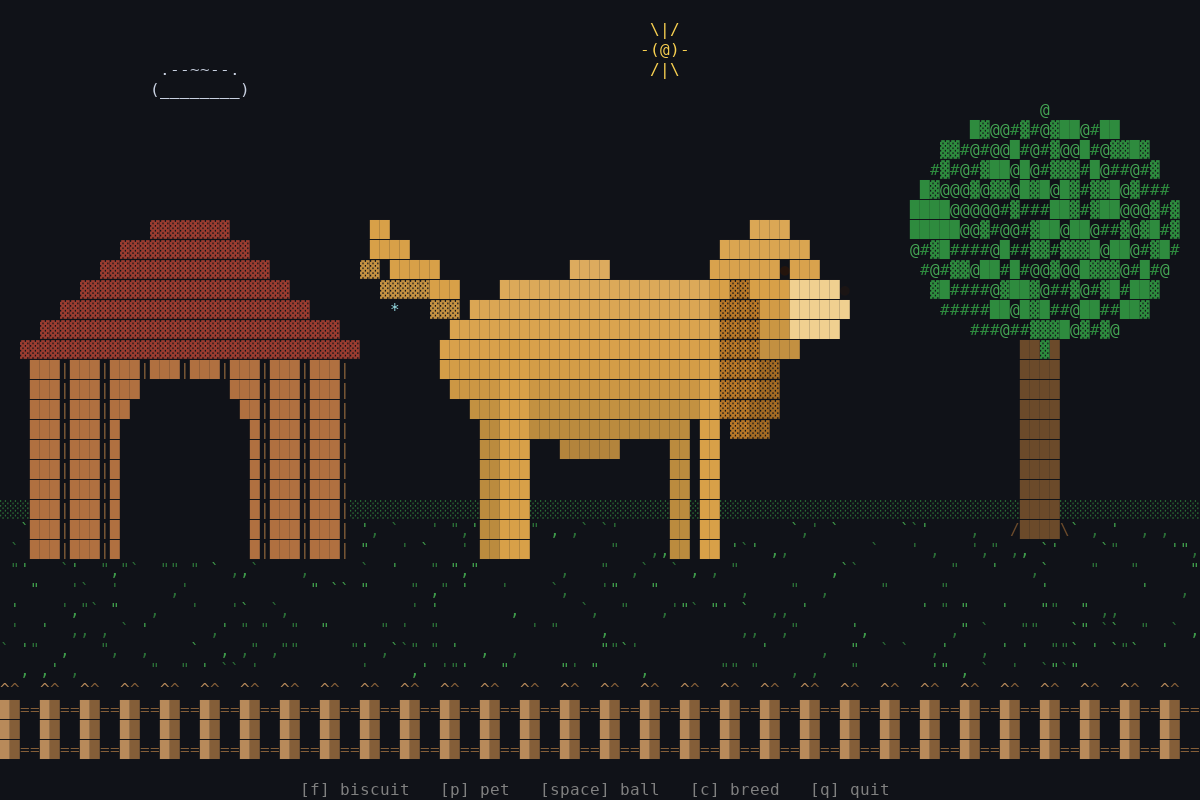
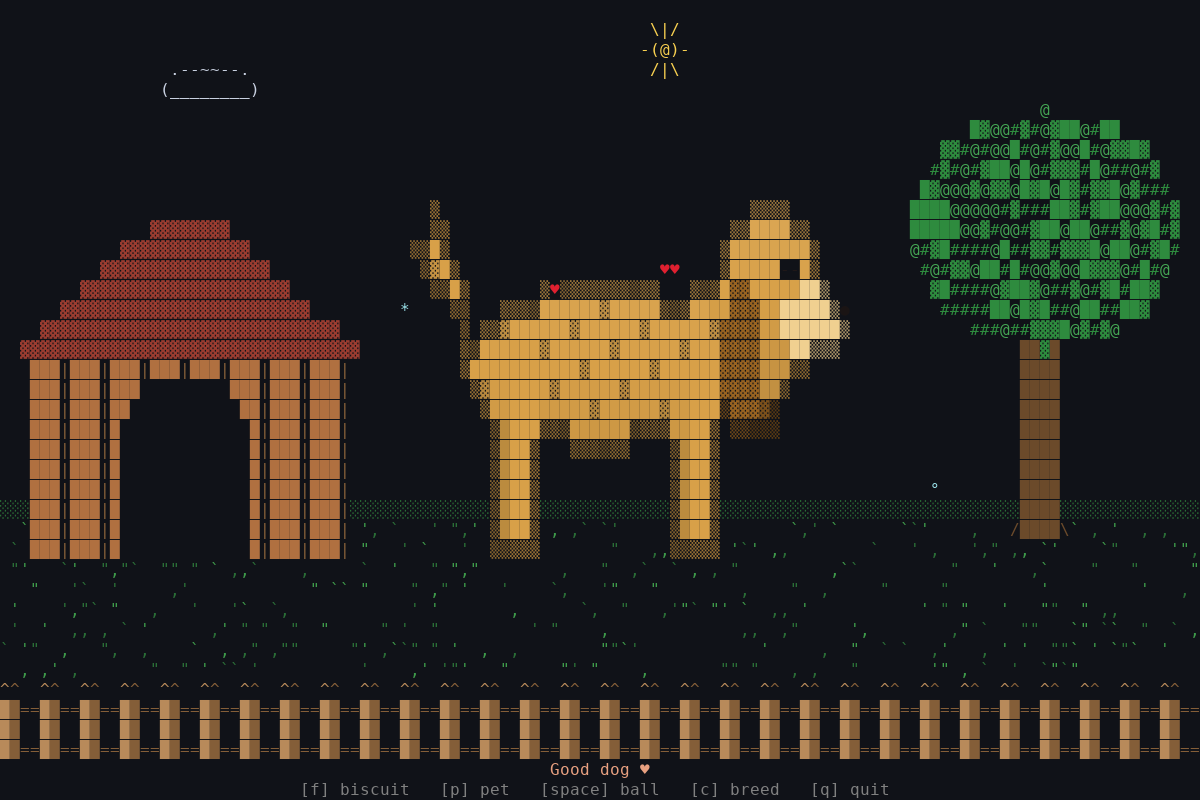
Redraw the dog in the cat's style with better proportions and a clearer roll-over
Claude-Session: https://claude.ai/code/session_015qkTSJmWNE5tcAWvmA8ec2

Changed region(s): [[0.2775, 0.25, 0.7092, 0.7188], [0.4625, 0.9375, 0.5242, 0.9688]]

diff --git a/src/dog_art.rs b/src/dog_art.rs
@@ -223,10 +223,10 @@ impl<'a> Rig<'a> {
         let p = &body.dpose;
         let m = g.maxw * br.size * 1.6;
         let ll = (0.15 * m * br.leg).max(1.0);
-        let rv = 0.14 * m;
+        let rv = 0.13 * m;
         let vb = ll + rv;
-        let hru = 0.18 * m;
-        let hrv = 0.1 * m;
+        let hru = 0.17 * m;
+        let hrv = 0.15 * m;
         let hd = p.head_down.max(0.5 * p.crouch);
         let hv0 = vb + rv * 0.75;
         let mut hv = hv0 - hd * (hv0 - 1.4 - hrv * 0.5) + p.look_up * 0.12 * m - p.tilt.abs() * 0.8;
@@ -234,8 +234,8 @@ impl<'a> Rig<'a> {
         let mut oy = (feet - 1) as f32 + body.dy;
         let flip = p.roll > 0.5;
         if flip {
-            hv = 2.0 * vb - hv - ll;
-            hu += 0.0;
+            // lying on its back: the body rests on the grass (`fill` mirrors v)
+            oy += (ll - 2.0).max(0.0);
         } else {
             oy += p.crouch;
         }
@@ -252,7 +252,7 @@ impl<'a> Rig<'a> {
             m,
             ll,
             rv,
-            ru: 0.46 * m,
+            ru: 0.42 * m,
             vb,
             hu,
             hv,
@@ -346,7 +346,7 @@ impl<'a> Rig<'a> {
     }
 
     fn mouth(&self) -> (f32, f32) {
-        let tip = self.hu + self.hru * 0.85 + 0.09 * self.m;
+        let tip = self.hu + self.hru * 0.85 + 0.11 * self.m;
         (tip, self.hv - 0.4)
     }
 }
@@ -361,10 +361,20 @@ fn shade(c: Rgb, k: f32) -> Rgb {
 
 /// Fur at a body point: glyph and color for this breed's markings.
 fn coat(r: &Rig, u: f32, v: f32, x: i32, y: i32) -> (char, Rgb) {
+    let (ch, c) = coat_flat(r, u, v, x, y);
+    // same fur speckle as the cat: every seventh cell a darker, lighter-weight glyph
+    if ch == '\u{2588}' && (x + 3 * y).rem_euclid(7) == 0 && r.br.pat != Pat::Poodle {
+        ('\u{2593}', shade(c, -0.6))
+    } else {
+        (ch, c)
+    }
+}
+
+fn coat_flat(r: &Rig, u: f32, v: f32, x: i32, y: i32) -> (char, Rgb) {
     let b = r.br;
     let rel = ((v - r.vb) / r.rv).clamp(-1.0, 1.0);
     let uu = u / r.m;
-    let base = shade(b.coat, rel * 0.8);
+    let base = shade(b.coat, rel * 0.3);
     match b.pat {
         Pat::Plain => ('\u{2588}', base),
         Pat::Husky => {
@@ -423,7 +433,14 @@ fn draw_leg(r: &Rig, cv: &mut Canvas, p: &crate::dog::DogPose, u0: f32, ph: f32,
     } else {
         0.0
     };
-    let hw = (0.035 * r.m).max(1.0);
+    // on its back the legs are bent and paw at the air
+    let (swing, lift) = if r.flip {
+        let k = (r.t * 9.0 + ph).sin();
+        (k * 0.04 * r.m, r.ll * 0.45 + (k * 0.5 + 0.5) * r.ll * 0.2)
+    } else {
+        (swing, lift)
+    };
+    let hw = (0.04 * r.m).max(1.5);
     let top = r.vb;
     let col = if far { shade(b.coat, -0.6) } else { b.coat };
     r.fill(
@@ -450,7 +467,7 @@ fn draw_leg(r: &Rig, cv: &mut Canvas, p: &crate::dog::DogPose, u0: f32, ph: f32,
 fn draw_tail(r: &Rig, cv: &mut Canvas, p: &crate::dog::DogPose) {
     let b = r.br;
     let m = r.m;
-    let (bu, bv) = (-0.46 * m, r.vb + r.rv * 0.5);
+    let (bu, bv) = (-0.42 * m, r.vb + r.rv * 0.5);
     let wag = (p.wag_ph).sin() * p.wag.clamp(0.0, 1.0) * 0.55;
     let col = b.coat;
     let stampc = |cv: &mut Canvas, u: f32, v: f32, ch: char, c: Rgb| {
@@ -468,7 +485,7 @@ fn draw_tail(r: &Rig, cv: &mut Canvas, p: &crate::dog::DogPose) {
         }
     };
     match b.tail {
-        Tail::Straight => line(cv, 0.6 + wag, 0.30 * m, false, '\u{2588}', col),
+        Tail::Straight => line(cv, 0.6 + wag, 0.30 * m, true, '\u{2588}', col),
         Tail::Plume => {
             line(cv, 0.7 + wag, 0.32 * m, true, '\u{2588}', col);
             line(cv, 0.45 + wag, 0.3 * m, false, '\u{2593}', shade(col, -0.4));
@@ -513,11 +530,15 @@ fn draw_head(r: &Rig, cv: &mut Canvas, body: &Body, neck: bool) {
     let (hu, hv) = (r.hu, r.hv);
     let mu = hu + r.hru * 0.85;
     let mv = hv - 0.25 * r.hrv;
-    let mru = 0.09 * m;
-    let mrv = (0.055 * m).max(0.9);
+    let mru = 0.11 * m;
+    let mrv = (0.06 * m).max(1.0);
     // far ear (behind the head)
     let ear = |cv: &mut Canvas, far: bool| {
-        let c = if far { shade(b.dark, -0.5) } else { b.dark };
+        let c = if far {
+            shade(b.dark, -1.5)
+        } else {
+            shade(b.dark, -0.8)
+        };
         if b.ears_up {
             let base = hu - r.hru * (if far { 0.15 } else { 0.55 });
             let h = (0.1 * m).max(2.0);
@@ -556,13 +577,13 @@ fn draw_head(r: &Rig, cv: &mut Canvas, body: &Body, neck: bool) {
     for k in 0..=(if neck { 6 } else { -1 }) {
         let a = k as f32 / 6.0;
         let (nu, nv) = (
-            0.32 * m + (hu - 0.32 * m) * a,
+            0.3 * m + (hu - 0.3 * m) * a,
             r.vb + r.rv * 0.5 + (hv - r.vb - r.rv * 0.5) * a,
         );
         r.ell(
             cv,
             (nu, nv),
-            (0.09 * m, (0.05 * m).max(1.0)),
+            (0.1 * m, (0.06 * m).max(1.2)),
             &|u, v, x, y| coat(r, u, v.min(r.vb + r.rv), x, y),
         );
     }
@@ -649,25 +670,25 @@ pub fn draw_dog(cv: &mut Canvas, body: &Body) {
         return;
     }
     // hind and near legs, tail, body, front legs, head
-    draw_leg(&r, cv, p, -0.36 * m, 0.0, true);
-    draw_leg(&r, cv, p, 0.24 * m, std::f32::consts::PI, true);
+    draw_leg(&r, cv, p, -0.32 * m, 0.0, true);
+    draw_leg(&r, cv, p, 0.26 * m, std::f32::consts::PI, true);
     draw_tail(&r, cv, p);
     let belly = if r.flip { b_light(&r) } else { None };
-    r.ell(cv, (-0.04 * m, r.vb), (r.ru, r.rv), &|u, v, x, y| {
+    r.ell(cv, (-0.02 * m, r.vb), (r.ru, r.rv), &|u, v, x, y| {
         if let Some(c) = belly {
             ('\u{2588}', c)
         } else {
             coat(&r, u, v, x, y)
         }
     });
-    draw_leg(&r, cv, p, -0.28 * m, std::f32::consts::PI, false);
+    draw_leg(&r, cv, p, -0.25 * m, std::f32::consts::PI, false);
     // front legs: dig alternates them backwards
     let dig = if p.dig > 0.0 {
         (p.fast_ph).sin() * p.dig
     } else {
         0.0
     };
-    draw_leg(&r, cv, p, 0.33 * m - 0.06 * m * dig, 0.0, false);
+    draw_leg(&r, cv, p, 0.32 * m - 0.06 * m * dig, 0.0, false);
     // hind leg raised to scratch the ear
     if p.scratch > 0.0 {
         let k = (p.fast_ph * 0.5).sin() * 0.5 + 0.5;
@@ -793,9 +814,34 @@ fn draw_inside(cv: &mut Canvas, body: &Body, r0: &Rig) {
     }
 }
 
+/// Soft darker rim (`▒`) on cells that border empty space, like the cat's gray edge.
+fn edge_pass(sc: &mut Canvas) {
+    let (w, h) = (sc.w as i32, sc.h as i32);
+    let src: Vec<Cell> = sc.cells.clone();
+    let at = |x: i32, y: i32| -> bool {
+        x >= 0 && y >= 0 && x < w && y < h && src[(y * w + x) as usize].fg.is_some()
+    };
+    for y in 0..h {
+        for x in 0..w {
+            let c = src[(y * w + x) as usize];
+            let Some(col) = c.fg else { continue };
+            if c.ch != '\u{2588}' && c.ch != '\u{2593}' {
+                continue;
+            }
+            if !(at(x - 1, y) && at(x + 1, y) && at(x, y - 1) && at(x, y + 1)) {
+                sc.cells[(y * w + x) as usize] = Cell {
+                    ch: '\u{2592}',
+                    fg: Some(lerp(col, (0, 0, 0), 0.28)),
+                };
+            }
+        }
+    }
+}
+
 pub fn draw_dog_into(cv: &mut Canvas, body: &Body, _mono: bool, id: u8, w: u16, h: u16) {
     let mut sc = Canvas::new(w, h, cv.ascii);
     draw_dog(&mut sc, body);
+    edge_pass(&mut sc);
     let p = &body.dpose;
     let (x0, hw, _, _) = house(w, h);
     let hide = p.nap > 0.0 && !p.inside;
